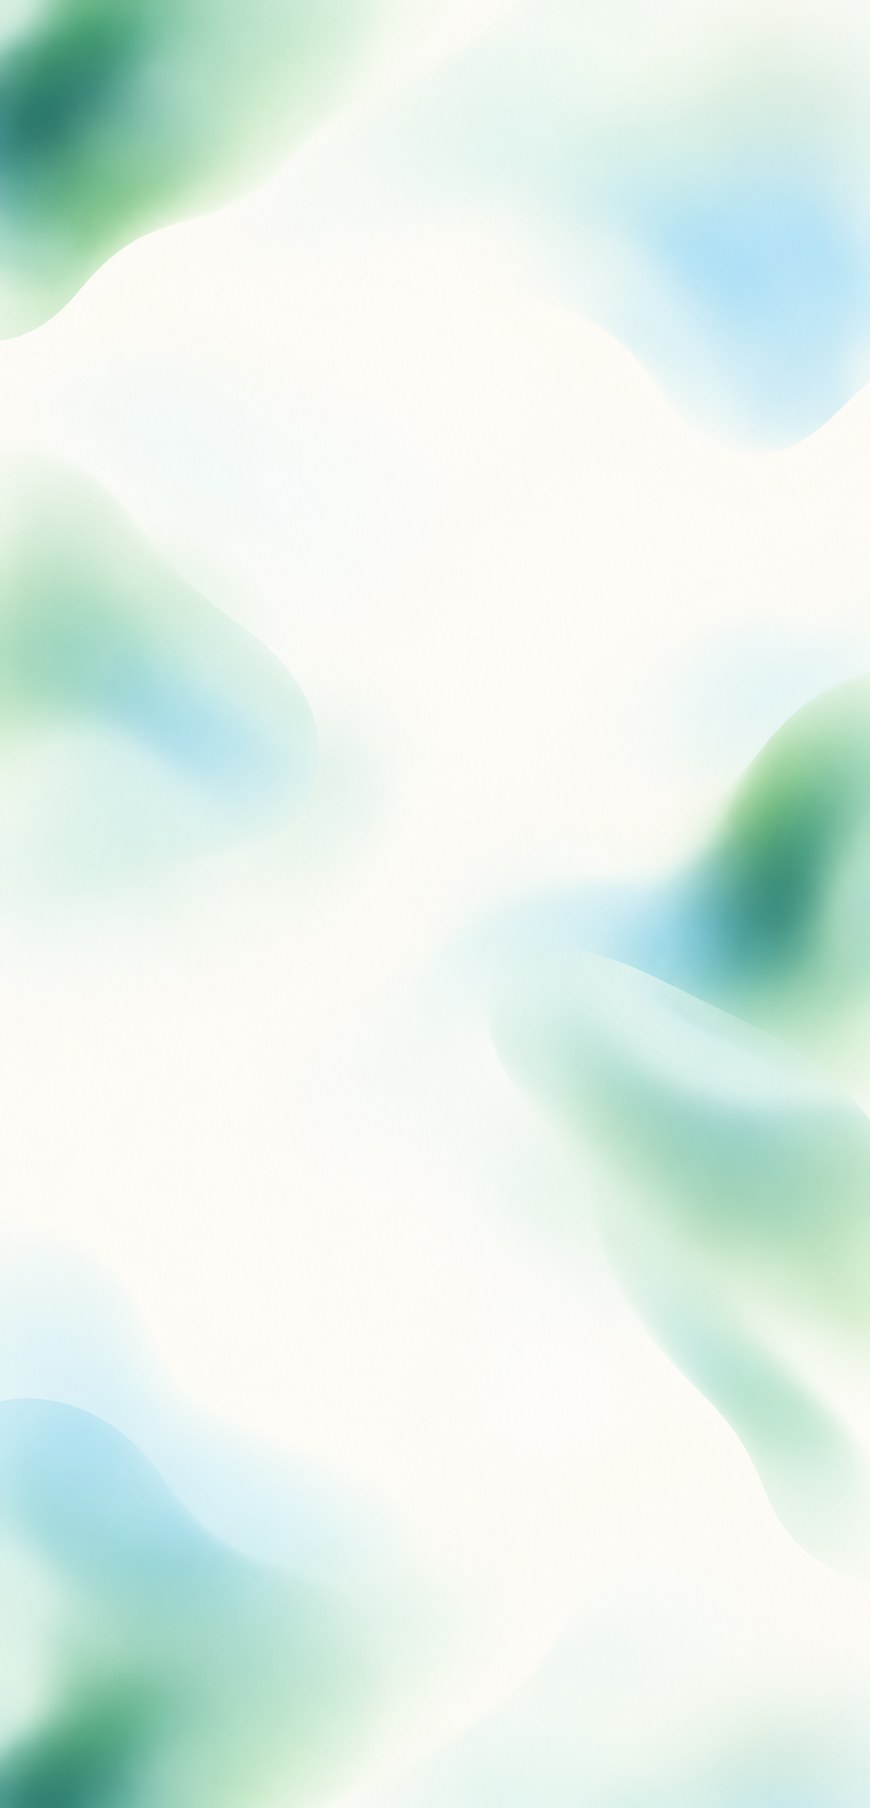
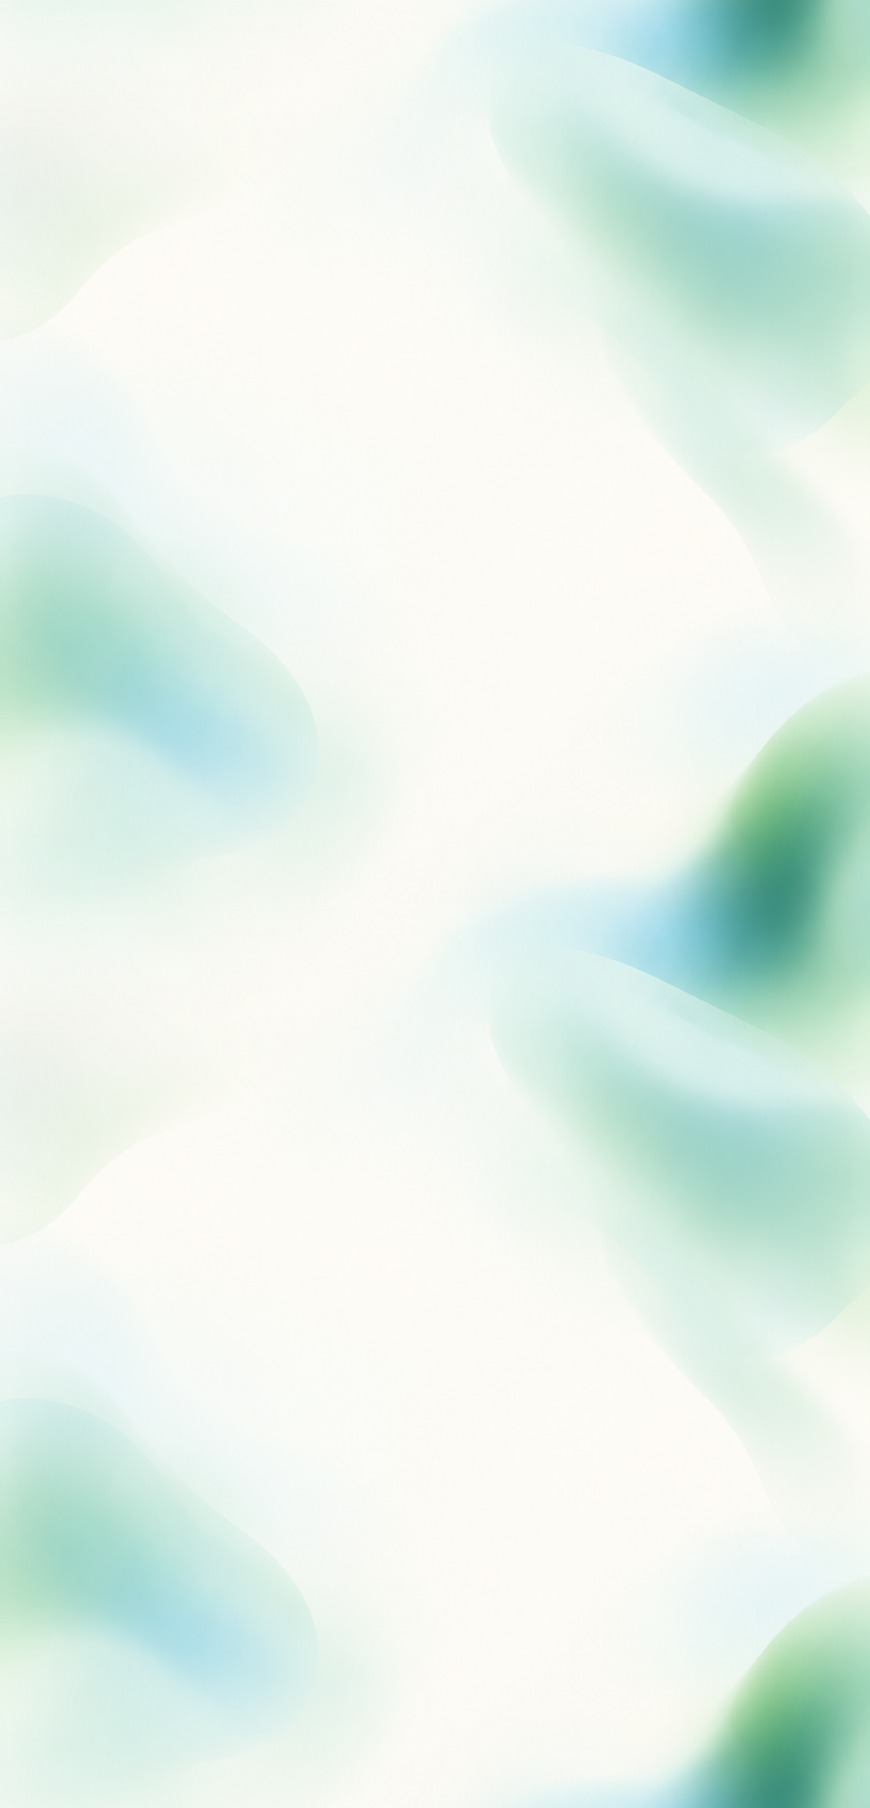
Go back to one continuous flowing background image; fix the seam properly at the image level (offset+blend seamless tiling) instead of chopping the art into per-section crops

diff --git a/assets/css/style.css b/assets/css/style.css
@@ -19,6 +19,10 @@ html{ scroll-behavior:auto; }
 body{
   margin:0;
   background-color:var(--ivory);
+  background-image:url('../images/bg-atmosphere.jpg');
+  background-repeat:repeat-y;
+  background-position:top center;
+  background-size:100% auto;
   color:var(--charcoal);
   font-family:'IBM Plex Sans', system-ui, -apple-system, sans-serif;
   line-height:1.65;
@@ -111,20 +115,7 @@ img{ max-width:100%; }
   overflow:hidden;
 }
 .section:last-of-type{ border-bottom:none; }
-/* Each section gets its own single, uncropped copy of the atmosphere art
-   (no tiling) so there is never a repeat seam, on any screen size. */
-.section::before{
-  content:"";
-  position:absolute; inset:0; z-index:0;
-  background-image:
-    linear-gradient(rgba(250,249,244,0.32), rgba(250,249,244,0.32)),
-    url('../images/bg-atmosphere.jpg');
-  background-repeat:no-repeat, no-repeat;
-  background-position:center, center;
-  background-size:cover, cover;
-  pointer-events:none;
-}
-.section > .wrap{ position:relative; z-index:1; width:100%; }
+.section > .wrap{ width:100%; }
 .section-head{ margin-bottom:44px; }
 .section-head p{ font-size:1.05rem; }
 .kicker{
